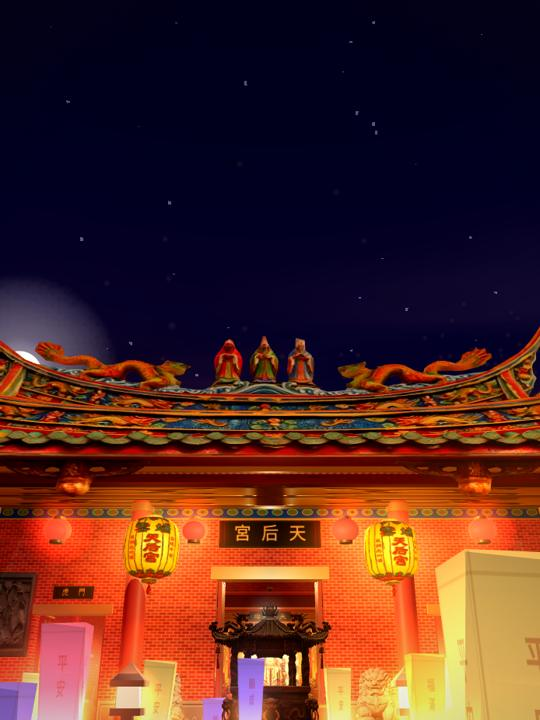
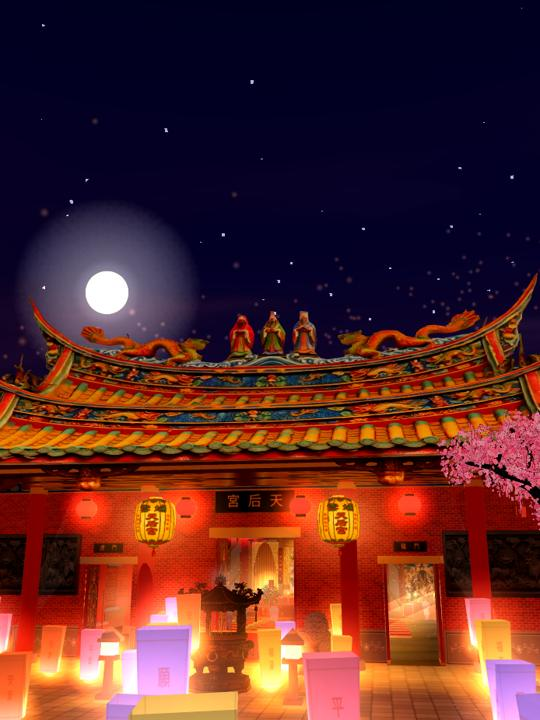
about.html: night views, sky lanterns, fireworks, 12 mini-game screens; door gods removed from the gallery
Claude-Session: https://claude.ai/code/session_01BnuMTse8PPhzVna2JLfuMv

diff --git a/public/about.html b/public/about.html
@@ -79,6 +79,9 @@ section{padding-block:56px}
 .g.w{grid-column:span 2} .g img{display:block;width:100%;height:100%;object-fit:cover;aspect-ratio:3/4} .g.w img{aspect-ratio:auto}
 .g figcaption{position:absolute;left:0;right:0;bottom:0;padding:28px 12px 10px;background:linear-gradient(transparent,rgba(10,4,2,.82));color:#f8ead2;font-size:12.5px;line-height:1.45;display:grid}
 .g figcaption b{font-family:var(--f-display);font-size:16px;font-weight:700;color:#fff3da}
+.sub{margin-top:28px;margin-bottom:12px;font-size:20px}
+.games{display:grid;grid-template-columns:repeat(6,1fr);gap:10px}
+.gm{margin:0;display:grid;gap:4px;min-width:0} .gm img{width:100%;aspect-ratio:9/16;object-fit:cover;object-position:top;border-radius:10px;border:1px solid var(--line);display:block;background:#1a0b08} .gm figcaption{font-size:12.5px;text-align:center;color:var(--ink-soft)}
 .shots{display:flex;gap:16px;overflow-x:auto;padding-bottom:10px;scroll-snap-type:x mandatory}
 .shot{flex:0 0 190px;scroll-snap-align:start;display:grid;gap:8px}
 .shot img{width:100%;aspect-ratio:360/676;object-fit:cover;border-radius:14px;border:1px solid var(--line);display:block}
@@ -125,8 +128,8 @@ footer{border-top:1px solid var(--line);padding-block:24px 36px;font-size:13px;c
 footer .wrap{display:flex;flex-wrap:wrap;gap:8px 20px;justify-content:space-between}
 .legend{display:inline-flex;gap:8px;align-items:center;font-size:13px;color:var(--ink-soft);margin-top:10px}
 
-@media (max-width:860px){ .gallery{grid-template-columns:repeat(2,1fr)}  .hero,.about,.contact{grid-template-columns:1fr} .feats{grid-template-columns:repeat(2,1fr)} .tiers{grid-template-columns:repeat(2,1fr)} .policy{grid-template-columns:1fr} .phone{width:min(230px,62vw)} }
-@media (max-width:520px){ .g.w{grid-column:span 2}  .feats,.tiers{grid-template-columns:1fr} .slip{grid-template-columns:1fr} .slip .pay{justify-items:start} .row{grid-template-columns:5.5em 1fr} .row .copy{grid-column:2;justify-self:start} }
+@media (max-width:860px){ .games{grid-template-columns:repeat(4,1fr)}  .gallery{grid-template-columns:repeat(2,1fr)}  .hero,.about,.contact{grid-template-columns:1fr} .feats{grid-template-columns:repeat(2,1fr)} .tiers{grid-template-columns:repeat(2,1fr)} .policy{grid-template-columns:1fr} .phone{width:min(230px,62vw)} }
+@media (max-width:520px){ .games{grid-template-columns:repeat(3,1fr)}  .g.w{grid-column:span 2}  .feats,.tiers{grid-template-columns:1fr} .slip{grid-template-columns:1fr} .slip .pay{justify-items:start} .row{grid-template-columns:5.5em 1fr} .row .copy{grid-column:2;justify-self:start} }
 @media (prefers-reduced-motion:reduce){ html{scroll-behavior:auto} }
 </style>
 </head>
@@ -193,17 +196,30 @@ footer .wrap{display:flex;flex-wrap:wrap;gap:8px 20px;justify-content:space-betw
       <div class="sec-head"><span class="kicker">遊戲畫面</span><h2>白天、夜晚、節慶</h2><p>以下全部是遊戲裡的實際畫面。</p></div>
       <div class="gallery">
         <figure class="g w"><img src="about/day_front.jpg" alt="白天的廟埕：藍天下的正殿與天公爐" loading="lazy"><figcaption><b>白天的廟埕</b>藍天下的正殿與天公爐</figcaption></figure>
-        <figure class="g t"><img src="about/fw.jpg" alt="煙火：全服一起看主委施放的煙火秀" loading="lazy"><figcaption><b>煙火</b>全服一起看主委施放的煙火秀</figcaption></figure>
-        <figure class="g t"><img src="about/lantern.jpg" alt="天燈：五十盞天燈從廟埕升空" loading="lazy"><figcaption><b>天燈</b>五十盞天燈從廟埕升空</figcaption></figure>
-        <figure class="g w"><img src="about/aerial.jpg" alt="夜景空拍：櫻花、夜市燈火與廟宇屋頂" loading="lazy"><figcaption><b>夜景空拍</b>櫻花、夜市燈火與廟宇屋頂</figcaption></figure>
+        <figure class="g t"><img src="about/lantern.jpg" alt="天燈：五十盞天燈點亮廟埕，準備升空" loading="lazy"><figcaption><b>天燈</b>五十盞天燈點亮廟埕，準備升空</figcaption></figure>
+        <figure class="g w"><img src="about/fw.jpg" alt="煙火夜景：全服一起看的煙火秀，櫻花與夜市燈火" loading="lazy"><figcaption><b>煙火夜景</b>全服一起看的煙火秀，櫻花與夜市燈火</figcaption></figure>
         <figure class="g t"><img src="about/hall.jpg" alt="正殿：媽祖神像與拜墊" loading="lazy"><figcaption><b>正殿</b>媽祖神像與拜墊</figcaption></figure>
-        <figure class="g w"><img src="about/opera.jpg" alt="歌仔戲台：廟埕上的歌仔戲演出" loading="lazy"><figcaption><b>歌仔戲台</b>廟埕上的歌仔戲演出</figcaption></figure>
         <figure class="g w"><img src="about/sunset.jpg" alt="黃昏：夕陽下的許願櫻花樹" loading="lazy"><figcaption><b>黃昏</b>夕陽下的許願櫻花樹</figcaption></figure>
         <figure class="g t"><img src="about/wish.jpg" alt="許願樹：掛滿心願卡的櫻花樹" loading="lazy"><figcaption><b>許願樹</b>掛滿心願卡的櫻花樹</figcaption></figure>
         <figure class="g t"><img src="about/zen.jpg" alt="靜思禪院：五十個蒲團，窗外是彩色楓樹" loading="lazy"><figcaption><b>靜思禪院</b>五十個蒲團，窗外是彩色楓樹</figcaption></figure>
         <figure class="g t"><img src="about/onsen.jpg" alt="禪房溫泉：落地窗外的楓紅" loading="lazy"><figcaption><b>禪房溫泉</b>落地窗外的楓紅</figcaption></figure>
-        <figure class="g t"><img src="about/door.jpg" alt="門神：正殿門扇上的門神" loading="lazy"><figcaption><b>門神</b>正殿門扇上的門神</figcaption></figure>
         <figure class="g t"><img src="about/paper.jpg" alt="天后宮日報：每天一份的廟裡新聞" loading="lazy"><figcaption><b>天后宮日報</b>每天一份的廟裡新聞</figcaption></figure>
+      </div>
+      <h3 class="sub">夜市與神明小遊戲</h3>
+      <div class="games">
+        <figure class="gm"><img src="about/g_bbq.jpg" alt="烤肉" loading="lazy"><figcaption>烤肉</figcaption></figure>
+        <figure class="gm"><img src="about/g_pachinko.jpg" alt="打彈珠" loading="lazy"><figcaption>打彈珠</figcaption></figure>
+        <figure class="gm"><img src="about/g_fish.jpg" alt="撈金魚" loading="lazy"><figcaption>撈金魚</figcaption></figure>
+        <figure class="gm"><img src="about/g_boba.jpg" alt="珍珠奶茶" loading="lazy"><figcaption>珍珠奶茶</figcaption></figure>
+        <figure class="gm"><img src="about/g_balloon.jpg" alt="射氣球" loading="lazy"><figcaption>射氣球</figcaption></figure>
+        <figure class="gm"><img src="about/g_qq.jpg" alt="地瓜球" loading="lazy"><figcaption>地瓜球</figcaption></figure>
+        <figure class="gm"><img src="about/g_wenchang.jpg" alt="文昌帝君・寫字" loading="lazy"><figcaption>文昌帝君・寫字</figcaption></figure>
+        <figure class="gm"><img src="about/g_fushui.jpg" alt="觀音菩薩・接福水" loading="lazy"><figcaption>觀音菩薩・接福水</figcaption></figure>
+        <figure class="gm"><img src="about/g_lullaby.jpg" alt="註生娘娘・哄寶寶" loading="lazy"><figcaption>註生娘娘・哄寶寶</figcaption></figure>
+        <figure class="gm"><img src="about/g_maze.jpg" alt="月老・牽紅線" loading="lazy"><figcaption>月老・牽紅線</figcaption></figure>
+        <figure class="gm"><img src="about/g_zhan.jpg" alt="斬小人" loading="lazy"><figcaption>斬小人</figcaption></figure>
+        <figure class="gm"><img src="about/g_gold.jpg" alt="財神・接黃金" loading="lazy"><figcaption>財神・接黃金</figcaption></figure>
+      </div>
       </div>
     </div>
   </section>
